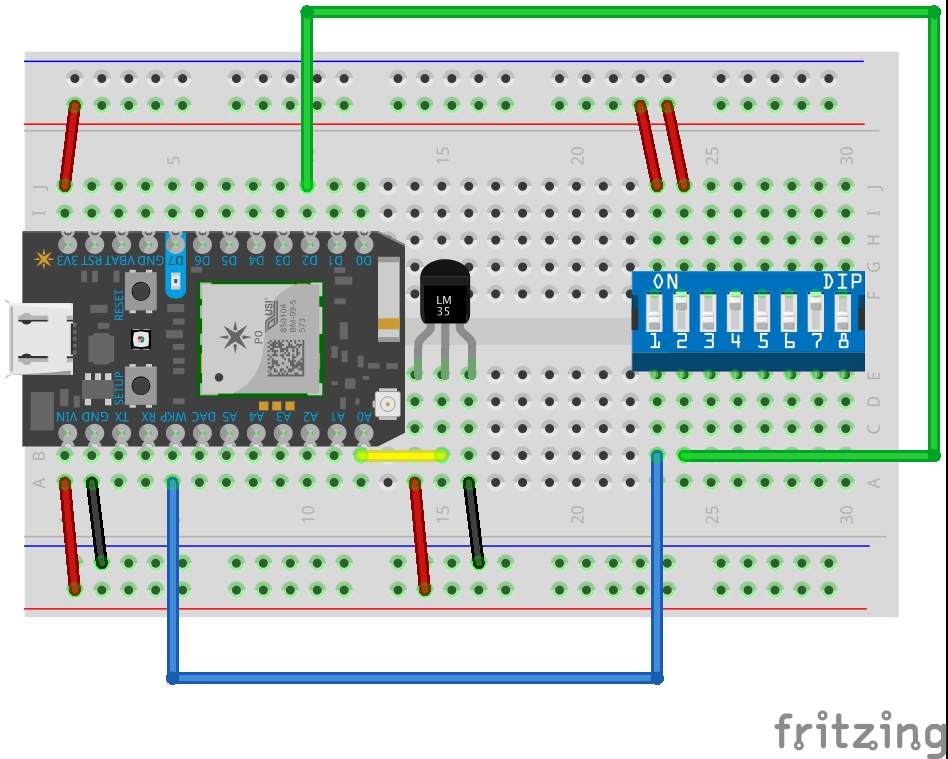
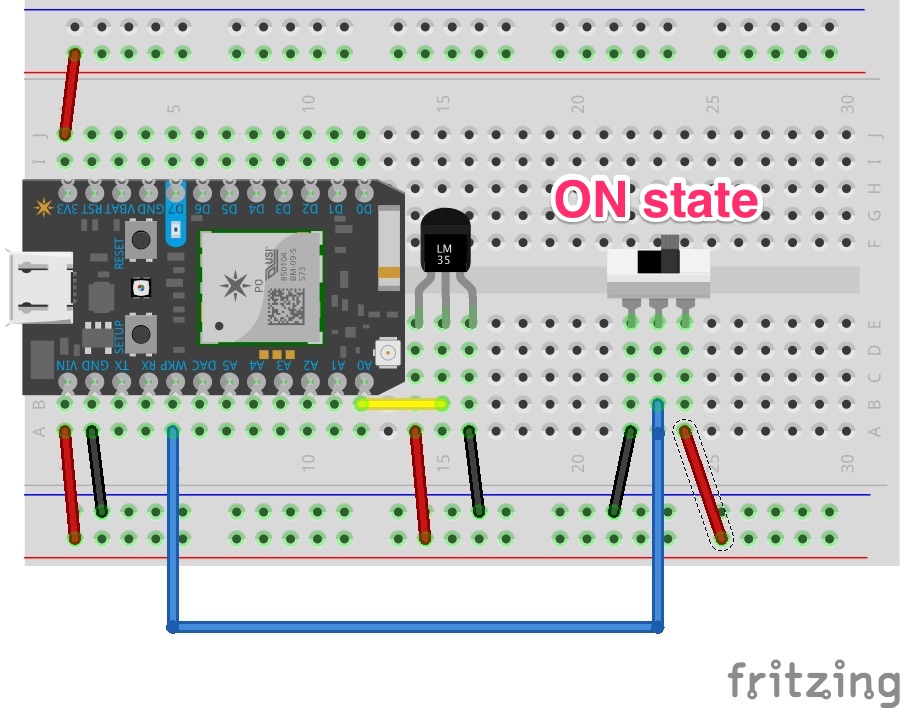
refactor: change from dip switch to a single slider switch. close #46

diff --git a/readme.md b/readme.md
@@ -19,8 +19,7 @@
 
 ## Wiring
 
-- Turn on DIP `Switch 1` to wakeup - for flashing firmware
-- Turn on DIP `Switch 1` and `Switch 2` for debug mode - for getting analog value every 5 seconds (instead of every hour)
+- Turn `ON` the slider switch to wake up and ping samples from the sensor every `10 seconds`
 
 ![](hardware/basil.jpg)
 
@@ -68,35 +67,19 @@
     <td><a href="http://www.aliexpress.com/item/Free-Shipping-5pcs-LM35-LM35D-LM35DZ-TO-92-CENTIGRADE-TEMPERATURE-SENSOR-IC/900246222.html">Aliexpress</a></td>
   </tr>
   <tr>
-    <td>Type 2 Row 4 pin DIP switch</td>
-    <td>On-off wakeup and debug</td>
+    <td>Slide switch</td>
+    <td>On-off wakeup and samples</td>
     <td>1</td>
-    <td>0.15</td>
-    <td>35</td>
-    <td><a href="http://www.aliexpress.com/item/10-Pcs-Slide-Type-2-Row-4-Pin-Terminals-2-Positions-PCB-DIP-Switch/2038402574.html">Aliexpress</a></td>
+    <td>0.906</td>
+    <td>28</td>
+    <td><a href="http://sg.element14.com/webapp/wcs/stores/servlet/ProductDisplay?catalogId=15001&langId=65&urlRequestType=Base&partNumber=1905334&storeId=10191">element14</a></td>
   </tr>
   <tr>
     <td></td>
     <td></td>
     <td>TOTAL</td>
-    <td>USD $45.20</td>
+    <td>USD $45.96</td>
     <td>days 42</td>
     <td></td>
   </tr>
 </table>
-
-
-
-## Research
-
-### Sensors
-
-1. [SparkFun](https://www.sparkfun.com/products/13322)
-- [Grove](http://www.seeedstudio.com/wiki/Grove_-_Moisture_Sensor)
-- [Cheap soil moisture sensor](http://gardenbot.org/howTo/soilMoisture/)
-
-### Similar projects
-
-1. [Instructables](http://www.instructables.com/id/Soil-Moisture-Sensor/)
-- [Hackster](https://www.hackster.io/search?q=soil+moisture)
-- [House plant monitor](https://learn.sparkfun.com/tutorials/sparkfun-inventors-kit-for-photon-experiment-guide/experiment-3-houseplant-monitor)
